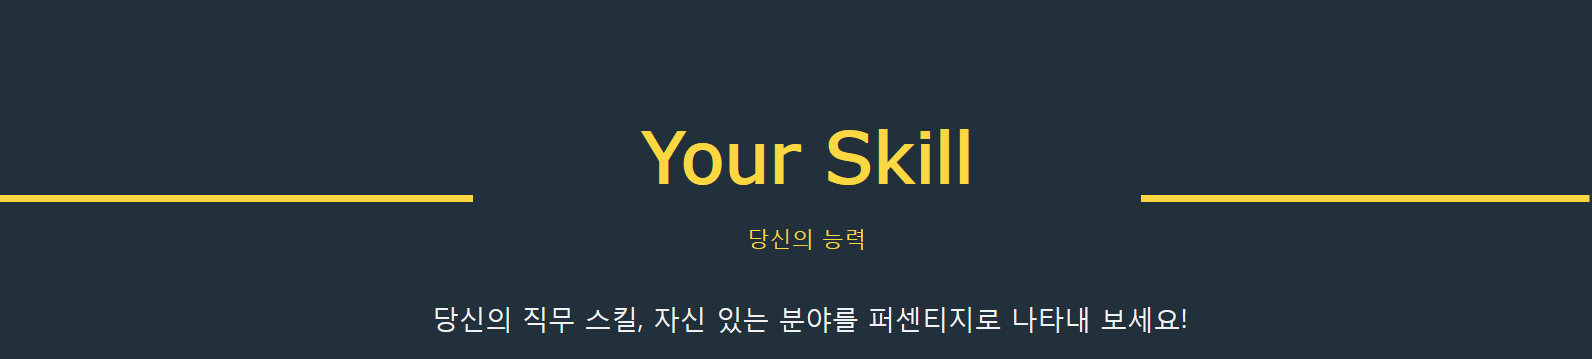
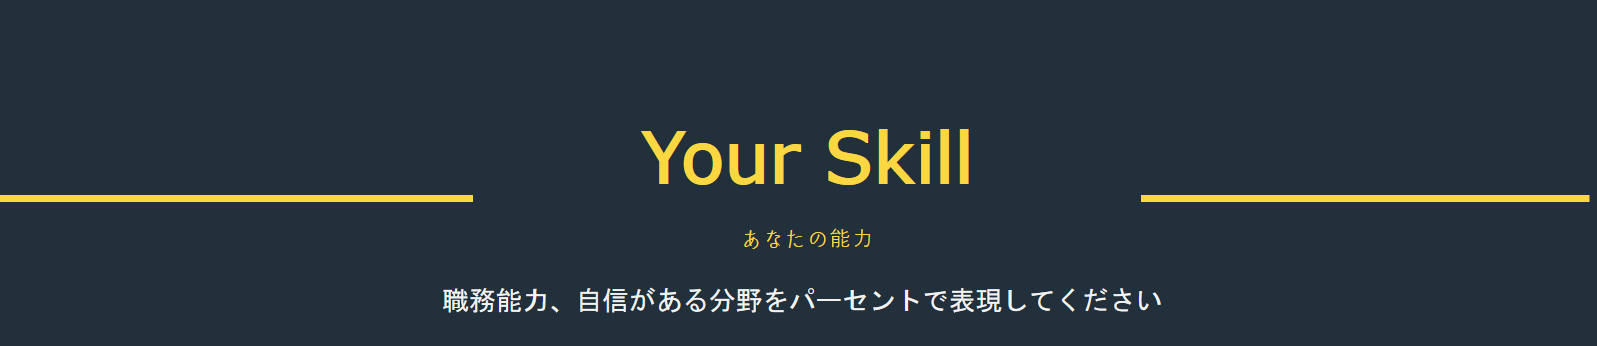
4-30 일본어로 수정중

diff --git a/src/main/webapp/resources/js/drag-n-drop.js b/src/main/webapp/resources/js/drag-n-drop.js
@@ -20,7 +20,7 @@ function nodata() {
 		drop : function( event, ui ) {
 			var word = ui.draggable.text();		//드래그 된 text값 변수에 담기
 			if(strong_cnt >= 3){
-				alert('장점은 3개까지만 가능합니다');
+				alert('長所は３つだけ可能です。');
 				return;
 			}
 			
@@ -28,17 +28,22 @@ function nodata() {
 			for(var i=0; i<strong_cnt; i++){
 				var txt = $('#strong'+i).text();
 				if(txt == word){
-					alert("중복 불가능");
+					alert("中腹不可能");
 					return;
 				}
 			}
 			
 			//div에 text추가
-			$(this).append("<span class='in_strongword' id='strong"+strong_cnt+"' value='"+strong_cnt+"'>"+word+"</span> ");
+			$(this).append("<span class='in_strongword' id='strong"+strong_cnt+"' value='"+strong_cnt+"'>"+word+"</span>&nbsp;&nbsp;");
 			
 			//추가된 단어 클릭시 단어에 대한 편집영역 보이기,또는 숨기기
 			$('.in_strongword').off('click').on('click', function() {
-				
+				$('.in_strongword').css('color', 'red');
+				$('.in_strongword').css('font-weight', 'normal');
+				$('.in_strongword').css('text-decoration', 'none');
+				$(this).css('color', 'blue');
+				$(this).css('font-weight', 'bold');
+				$(this).css('text-decoration', 'underline');
 				var v = $(this).attr('value');
 				var display = $('#strong_detail'+v).css('display');
 				if(display == 'none'){
@@ -47,6 +52,9 @@ function nodata() {
 				}
 				else if(display == 'block'){
 					$('#strong_detail'+v).css('display', 'none');
+					$('.in_strongword').css('color', 'red');
+					$('.in_strongword').css('font-weight', 'normal');
+					$('.in_strongword').css('text-decoration', 'none');
 				}
 			});
 			strong_cnt++;	//장점갯수 +
@@ -58,7 +66,7 @@ function nodata() {
 		drop : function( event, ui ) {
 			var word = ui.draggable.text();
 			if(weak_cnt >= 3){
-				alert('단점은 3개까지만 가능합니다');
+				alert('短所は３つだけ可能です。');
 				return;
 			}
 			
@@ -66,16 +74,22 @@ function nodata() {
 			for(var i=0; i<weak_cnt; i++){
 				var txt = $('#weak'+i).text();
 				if(txt == word){
-					alert("중복불가능");
+					alert("中腹不可能");
 					return;
 				}
 			}
 			
 			//div에 text추가
-			$(this).append("<span class='in_weakword' id='weak"+weak_cnt+"' value='"+weak_cnt+"'>"+word+"</span> ");
+			$(this).append("<span class='in_weakword' id='weak"+weak_cnt+"' value='"+weak_cnt+"'>"+word+"</span>&nbsp;&nbsp;");
 			
 			//추가된 단어 클릭시 단어에 대한 편집영역 보이기,또는 숨기기
 			$('.in_weakword').off('click').on('click', function() {
+				$('.in_weakword').css('color', 'blue');
+				$('.in_weakword').css('font-weight', 'normal');
+				$('.in_weakword').css('text-decoration', 'none');
+				$(this).css('color', 'red');
+				$(this).css('font-weight', 'bold');
+				$(this).css('text-decoration', 'underline');
 				var v = $(this).attr('value');
 				var display = $('#weak_detail'+v).css('display');
 				if(display == 'none'){
@@ -84,6 +98,9 @@ function nodata() {
 				}
 				else if(display == 'block'){
 					$('#weak_detail'+v).css('display', 'none');
+					$('.in_weakword').css('color', 'blue');
+					$('.in_weakword').css('font-weight', 'normal');
+					$('.in_weakword').css('text-decoration', 'none');
 				}
 			});
 			
